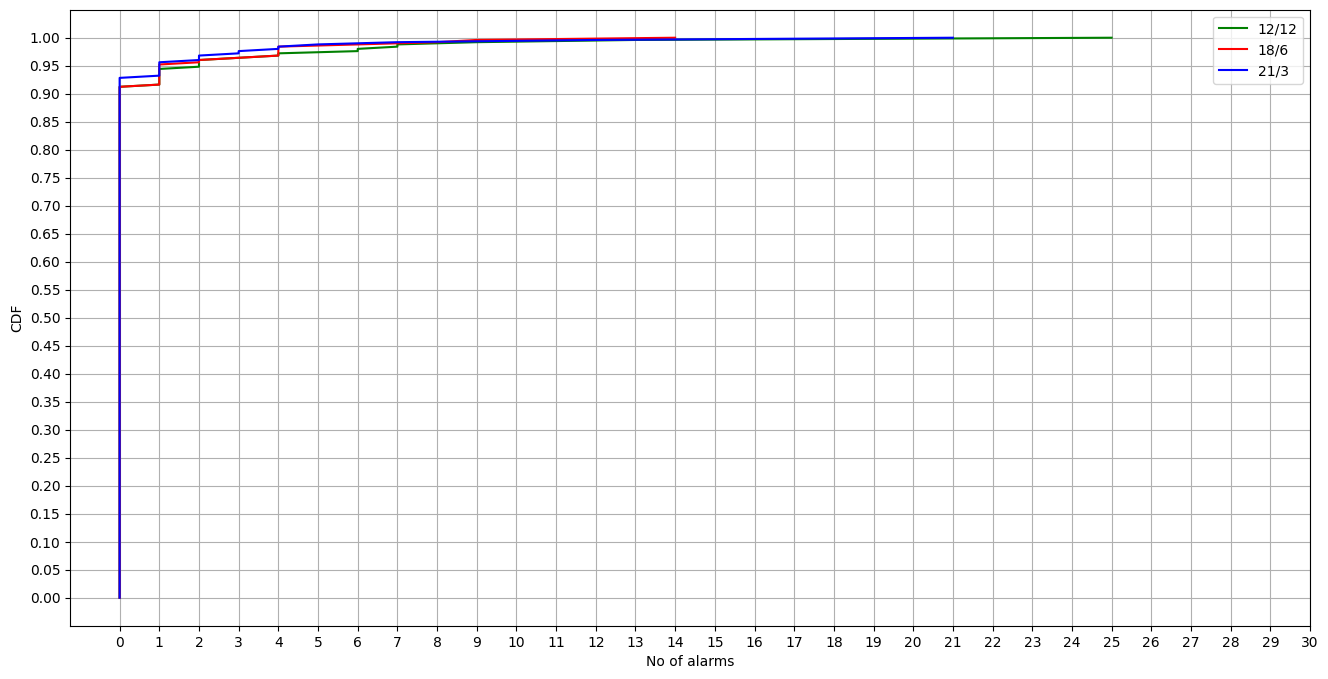
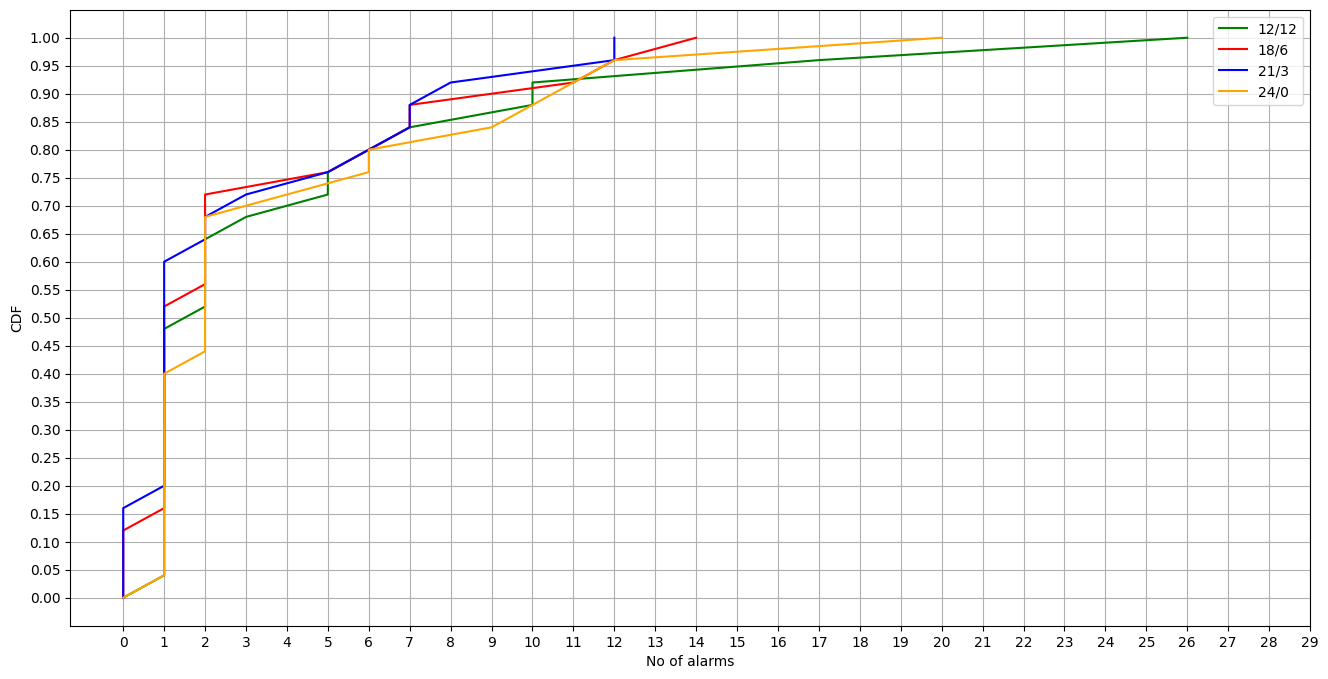
CDF plot update

diff --git a/phase3_scripts/rtt_monitoring/rtt_initial_ref_sw_bk.py b/phase3_scripts/rtt_monitoring/rtt_initial_ref_sw_bk.py
@@ -109,15 +109,25 @@ initial_ref_values = dict.fromkeys(link_dict.keys())
 for key, val in link_dict.items():
     lb_array = link_dict[key]["lower_bd"]
     ub_array = link_dict[key]["upper_bd"]
-    lb_array_1, lb_array_2 = np.split(link_dict[key]["lower_bd"], [int(ref_split)])
-    median_array_1, median_array_2 = np.split(link_dict[key]["median"], [int(ref_split)])
-    ub_array_1, ub_array_2 = np.split(link_dict[key]["upper_bd"], [int(ref_split)])
-    initial_ref_values[key] = {
-        "lower_bd" : round((np.median(lb_array_1)*0.1 + np.median(lb_array_2)*0.9),5),
-        "median" : round((np.median(median_array_1)*0.1 + np.median(median_array_2)*0.9),5),
-        "upper_bd" : round((np.median(ub_array_1)*0.1 + np.median(ub_array_2)*0.9),5),
-        "diff"     : round(np.median(ub_array) - np.median(lb_array), 5)
-    }
+    median_array = link_dict[key]["median"]
+    if(int(ref_split) != 0):
+        lb_array_1, lb_array_2 = np.split(link_dict[key]["lower_bd"], [int(ref_split)])
+        median_array_1, median_array_2 = np.split(link_dict[key]["median"], [int(ref_split)])
+        ub_array_1, ub_array_2 = np.split(link_dict[key]["upper_bd"], [int(ref_split)])
+        initial_ref_values[key] = {
+                "lower_bd" : round((np.median(lb_array_1)*0.1 + np.median(lb_array_2)*0.9),5),
+                "median" : round((np.median(median_array_1)*0.1 + np.median(median_array_2)*0.9),5),
+                "upper_bd" : round((np.median(ub_array_1)*0.1 + np.median(ub_array_2)*0.9),5),
+                "diff"     : round(np.median(ub_array) - np.median(lb_array), 5)
+        }
+    else:
+        initial_ref_values[key] = {
+                "lower_bd" : round((np.median(lb_array)),5),
+                "median" : round((np.median(median_array)),5),
+                "upper_bd" : round((np.median(ub_array)),5),
+                "diff"     : round(np.median(ub_array) - np.median(lb_array), 5)
+        }
+
 
 output_file.write(ujson.dumps(initial_ref_values))
 output_file.close()

diff --git a/phase3_scripts/rtt_monitoring/rtt_cdf_plot.py b/phase3_scripts/rtt_monitoring/rtt_cdf_plot.py
@@ -20,7 +20,7 @@ def cdf_plot(cdf_x_labels1,cdf_x_labels2,cdf_x_labels3,cdf_x_labels4):
     plt.legend(('12/12','18/6', '21/3', '24/0'), loc = 'upper right', shadow=False, fancybox=True)
     plt.xlabel("No of alarms")
     plt.ylabel("CDF")
-    plt.xticks(np.arange(0, 100, 2))
+    plt.xticks(np.arange(0, 30, 1))
     plt.yticks(np.arange(0, 1.05, 0.05))
     plt.grid(True)
     plt.savefig("../results/cdf.png", bbox_inches='tight')
@@ -39,17 +39,26 @@ file4 = open("../results/rtt_cdf_0",'r')
 ref_links4 = ujson.load(file4)
 file4.close()  
 
+zero_alarm = []
 for item in ref_links1.keys():
-    if ref_links1[item] == 0  and if ref_links2[item] == 0 and  if ref_links3[item] == 0 and if ref_links4[item] == 0:
-        ref_links1.pop(item)
-        ref_links2.pop(item)
-        ref_links3.pop(item)
-        ref_links4.pop(item)
-             
+    if ref_links1[item] == 0  and ref_links2[item] == 0 and  ref_links3[item] == 0 and ref_links4[item] == 0:
+        zero_alarm.append(item)
+
+print(len(zero_alarm))
+for item in zero_alarm:
+    ref_links1.pop(item)
+    ref_links2.pop(item)
+    ref_links3.pop(item)
+    ref_links4.pop(item)
+
 cdf_x_labels1 = list(ref_links1.values())
+print(len(cdf_x_labels1))
 cdf_x_labels2 = list(ref_links2.values())
+print(len(cdf_x_labels2))
 cdf_x_labels3 = list(ref_links3.values())
+print(len(cdf_x_labels3))
 cdf_x_labels4 = list(ref_links4.values())
+print(len(cdf_x_labels4))
 
 cdf_plot(cdf_x_labels1,cdf_x_labels2,cdf_x_labels3,cdf_x_labels4)
 
